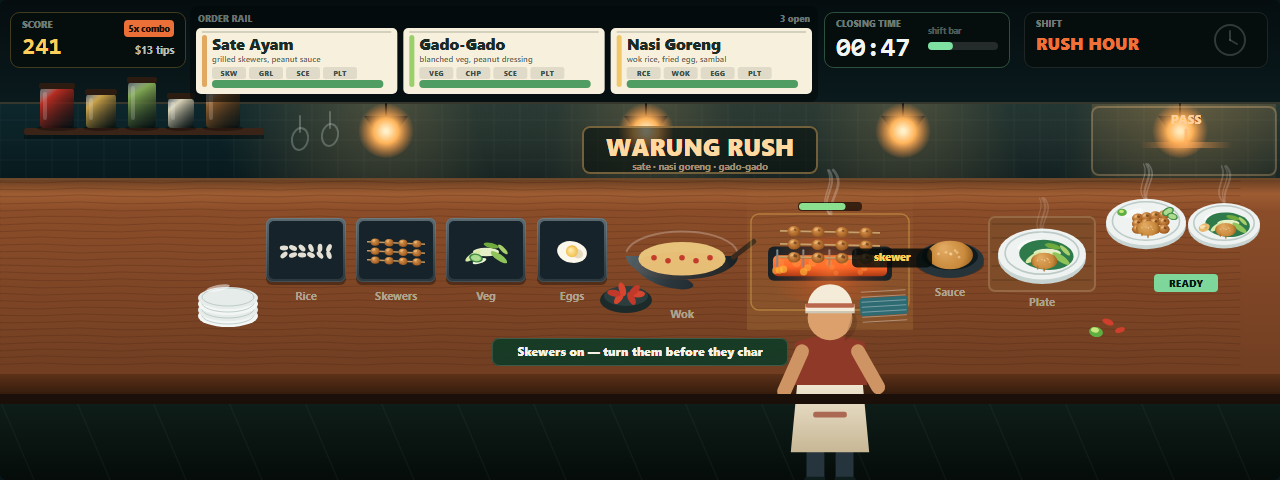
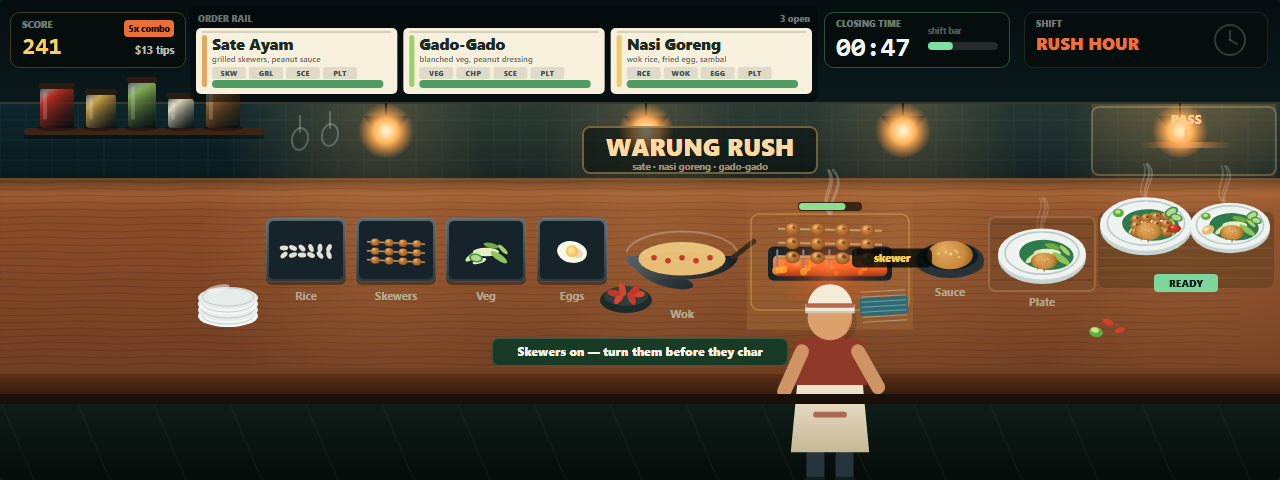
Richer plates: leaf, sambal, garnish; pass mat and warm counter light

Changed region(s): [[0.8438, 0.4062, 1.0, 0.5312], [0.5938, 0.4688, 0.7188, 0.5625]]

diff --git a/game/src/kitchen.js b/game/src/kitchen.js
@@ -316,6 +316,13 @@ function drawCounter(c, state, t) {
   c.fillStyle = sg;
   c.fillRect(0, LAYOUT.counterTop, 1280, 16);
 
+  for (const lx of [386, 646, 903, 1180]) {
+    const g = c.createRadialGradient(lx, LAYOUT.counterTop + 60, 8, lx, LAYOUT.counterTop + 60, 190);
+    g.addColorStop(0, 'rgba(255,190,110,0.16)');
+    g.addColorStop(1, 'rgba(255,190,110,0)');
+    c.fillStyle = g;
+    c.fillRect(lx - 200, LAYOUT.counterTop, 400, 190);
+  }
   for (const s of LAYOUT.stations) drawStation(c, s, state, t);
   drawProps(c, t);
   passAlcove(c, state, t);
@@ -439,7 +446,7 @@ function drawStation(c, s, state, t) {
     emberGlow(c, s.x, yTop + 70, 78, t);
     // three skewers lying across the grate, close enough to read at thumbnail size
     for (let i = 0; i < 3; i++) {
-      sataySkewer(c, s.x, yTop + 32 + i * 13, 100, 0.02, 0.72, { char: 0.4 + i * 0.1 });
+      sataySkewer(c, s.x, yTop + 30 + i * 14, 104, 0.02, 0.82, { char: 0.38 + i * 0.12 });
     }
     steam(c, s.x, yTop + 14, t + 0.8, 1.1, 0.3);
     if (!hideLabel) label(c, 'Grill', s.x, yTop + 120, { size: 11, color: near ? PAL.gold : 'rgba(215,230,220,0.6)', align: 'center', weight: 700 });
@@ -532,8 +539,20 @@ function passAlcove(c, state, t) {
   c.fillRect(x - 46, y0 + 38, 92, 6);
 
   const ready = state.passReady || ['satay', 'gado'];
-  plated(c, x - 40, LAYOUT.counterTop + 44, 40, ready.includes('satay') ? { satay: 3, sauce: true, garnish: true } : { rice: true });
-  plated(c, x + 38, LAYOUT.counterTop + 46, 36, ready.includes('gado') ? { veg: true, sauce: true, krupuk: true } : {});
+  // woven service mat under the pass plates
+  c.fillStyle = 'rgba(90,60,30,0.55)';
+  rr(c, x - 88, LAYOUT.counterTop + 34, 176, 76, 8);
+  c.fill();
+  c.strokeStyle = 'rgba(255,220,160,0.12)';
+  c.lineWidth = 1;
+  for (let i = 0; i < 7; i++) {
+    c.beginPath();
+    c.moveTo(x - 86, LAYOUT.counterTop + 40 + i * 10);
+    c.lineTo(x + 86, LAYOUT.counterTop + 40 + i * 10);
+    c.stroke();
+  }
+  plated(c, x - 40, LAYOUT.counterTop + 46, 46, ready.includes('satay') ? { satay: 3, sauce: true, garnish: true, sambal: true } : { rice: true });
+  plated(c, x + 44, LAYOUT.counterTop + 48, 40, ready.includes('gado') ? { veg: true, sauce: true, krupuk: true, garnish: true } : {});
   steam(c, x - 40, LAYOUT.counterTop + 22, t, 0.9, 0.3);
   steam(c, x + 38, LAYOUT.counterTop + 24, t + 1.4, 0.9, 0.24);
   c.fillStyle = 'rgba(126,224,161,0.94)';

diff --git a/game/src/food.js b/game/src/food.js
@@ -299,7 +299,7 @@ export function plated(c, x, y, s, parts = {}) {
   c.ellipse(x - s * 0.32, y - s * 0.22, s * 0.26, s * 0.09, -0.35, 0, Math.PI * 2);
   c.fill();
 
-  if (p.veg) {
+  if (p.veg || p.satay > 0) {
     c.fillStyle = PAL.leaf;
     c.beginPath();
     c.ellipse(x + s * 0.1, y + s * 0.02, s * 0.62, s * 0.34, 0.08, 0, Math.PI * 2);
